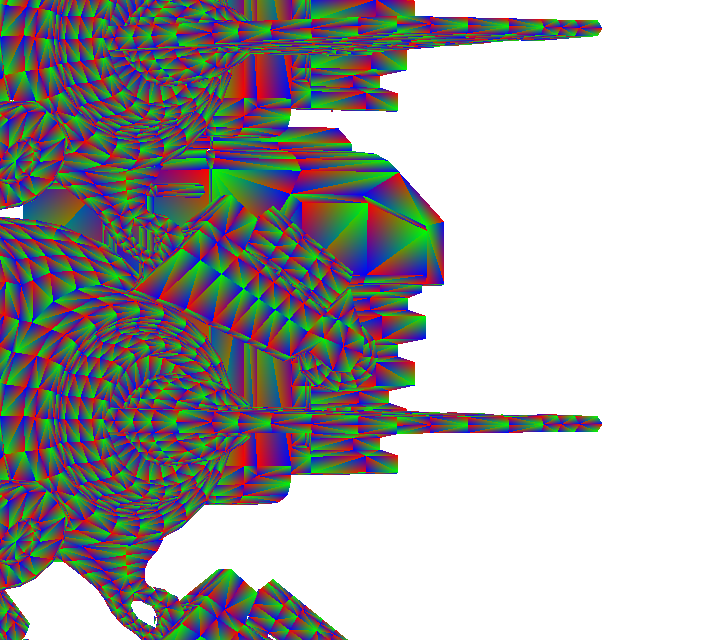
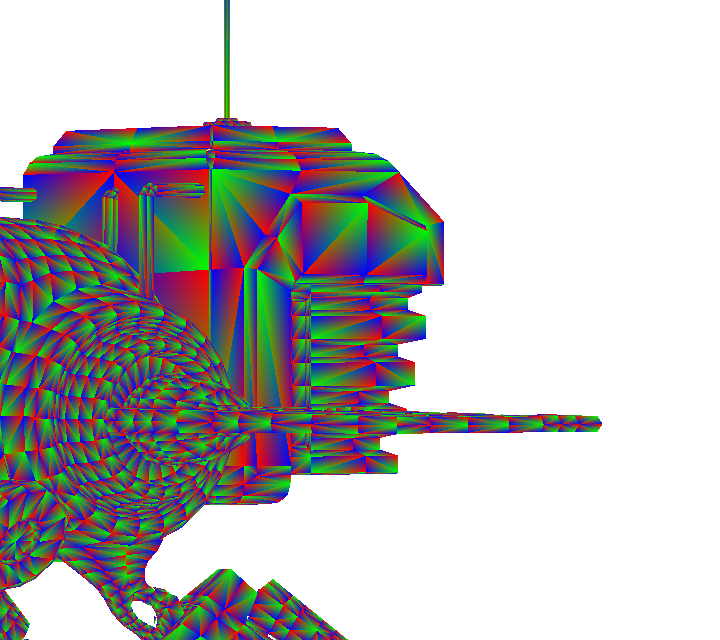
ray shader kernel

Changed region(s): [[0.0, 0.0, 0.8556, 0.625]]

diff --git a/examples/gpu.rs b/examples/gpu.rs
@@ -7,6 +7,7 @@ use gpu_tracer::{
     gpu_ray_intersector::GpuIntersector,
     read_triangle_file,
     types::Vertex,
+    write_intersection_buffer_to_file,
 };
 use vk_utils::{
     buffer_resource::BufferResource, queue::CommandQueue, vulkan::Vulkan, DebugUtils,
@@ -31,7 +32,7 @@ fn main() {
         Ray ray;
         ray.origin = origin;
         ray.direction = direction;
-        ray.inv_direction = 1.0 / direction;
+        ray.invDirection = 1.0 / direction;
         return ray;
     }
 
@@ -122,4 +123,6 @@ fn main() {
         .wait();
     let elapsed_time = now.elapsed();
     println!("Tracing GPU took {} millis.", elapsed_time.as_millis());
+
+    // write_intersection_buffer_to_file("gpu.png", &intersection_buffer.copy_data(), width, height);
 }

diff --git a/src/gpu_ray_generator.rs b/src/gpu_ray_generator.rs
@@ -101,7 +101,7 @@ impl GpuRayGenerator {
         let mut command_buffer = CommandBuffer::new(self.queue.clone());
         command_buffer.begin();
         command_buffer.bind_compute_pipeline(&self.pipeline);
-        command_buffer.dispatch_compute(width as _, height as _, 1);
+        command_buffer.dispatch_compute(width as u32 / 8, height as u32 / 8, 1);
         command_buffer.submit()
     }
 }

diff --git a/src/gpu_ray_intersector.rs b/src/gpu_ray_intersector.rs
@@ -83,7 +83,7 @@ impl GpuIntersector {
 
         command_buffer.begin();
         command_buffer.bind_compute_pipeline(&self.pipeline);
-        command_buffer.dispatch_compute(width as u32, height as u32, 1);
+        command_buffer.dispatch_compute(width as u32 / 8, height as u32 / 8, 1);
         command_buffer.submit()
     }
 
